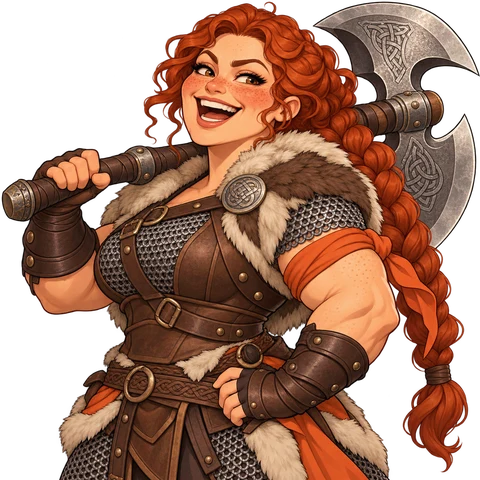
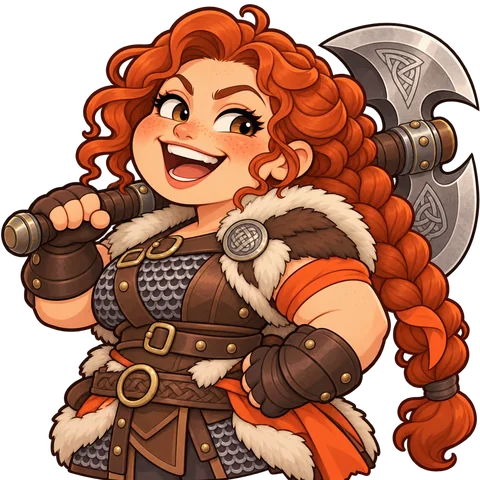
Remove Tripo free-tier leftovers, redraw Brenna/Mira UX mockup images
- Remove kael_tripo.glb, the first Kael turnaround and the Tripo test
  mockups (all from the free tier, never shipped; licensing A4) and point
  licensing, art direction and READMEs at the removal.
- Regenerate the Brenna and Mira head/bust images of the UX mockups from the
  current round-chibi portraits; the old ones were semi-realistic.

diff --git a/concept/23-art-direction/licensing.md b/concept/23-art-direction/licensing.md
@@ -125,13 +125,13 @@ Bewertung: **erlaubt** (ohne Bedingung), **mit Bedingungen**, **nicht erlaubt**.
 
 ### 3.3 Tripo (Bild-zu-3D)
 
-**Verwendung:** Brettfiguren als GLB (`art/models/source/*_board_tripo.glb` → `art/models/units/*.glb`), Rig und Animationen im Tripo-Dienst (`art-direction.md` §4.6, `art/mockups/tripo-test-2026-10/README.md`). Danach Aufbereitung in Blender (`tools/art/prepare_tripo_unit.py`).
+**Verwendung:** Brettfiguren als GLB (`art/models/source/*_board_tripo.glb` → `art/models/units/*.glb`), Rig und Animationen im Tripo-Dienst (`art-direction.md` §4.6). Danach Aufbereitung in Blender (`tools/art/prepare_tripo_unit.py`).
 
 - Terms (Auszug laut Suchtreffer, Abschnitt 5, Q12 [S]): **Free-Nutzer**: Tripo „retains all rights“ an Eingaben und Ausgaben, einschließlich der Rechte zu nutzen, zu kopieren, zu verändern, zu veröffentlichen, zu lizenzieren und daraus Erlöse zu erzielen (Abschnitt 5.2.1). **Zahlende Nutzer**: sie halten alle Rechte an Eingaben und Ausgaben, einschließlich kommerzieller Nutzung, Änderung, Verbreitung und Lizenzierung (5.2.2); sie räumen Tripo eine begrenzte, weltweite Lizenz zum Hosten und Anzeigen ein. Tripo verwendet Ein-/Ausgaben zahlender Nutzer laut Hilfeseite **nicht** für das Training; für Free-Nutzer gibt es diese Zusage nicht (Q13 [S]).
 - **Widerspruch:** Die Preis- und Blogseiten sagen, Free-Modelle seien öffentlich unter **CC BY 4.0** und damit mit Namensnennung kommerziell nutzbar (Q13 [S]). Die Terms selbst erwähnen CC BY nicht. Eine dritte Quelle sagt, Free sei nur nicht-kommerziell. **Dem Terms-Text ist zu folgen; Free-Ausgaben nicht ausliefern.**
 - **Rückwirkung bei Upgrade:** nicht belegt. Mehrere Tripo-Seiten sagen nur, es gelte die **zum Zeitpunkt der Erzeugung gültige** Fassung; eine Marketingseite behauptet, maßgeblich sei ein aktives Pro-Abo bei der Erzeugung (Q13 [S]). → Vorsicht: **was im Free-Tarif entstand, nicht ausliefern.**
 - **Betrifft das Repo konkret:**
-  - `art/models/source/kael_tripo.glb` und Bilder in `art/mockups/tripo-test-2026-10/`: **Free-Tarif, in der Tripo-Galerie öffentlich** (README dort). Nicht ausliefern. Das ausgelieferte Kael-Modell stammt aus dem späteren Weg (`kael_board_tripo.glb`).
+  - `art/models/source/kael_tripo.glb`, der erste Turnaround `art/turnarounds/kael/` und die Bilder in `art/mockups/tripo-test-2026-10/`: **Free-Tarif, in der Tripo-Galerie öffentlich**. Nicht ausgeliefert und am 2026-10-24 aus dem Repo entfernt (A4 erledigt, nur noch in der Git-Historie). Das ausgelieferte Kael-Modell stammt aus dem späteren Weg (`kael_board_tripo.glb`).
   - Beim zweiten und dritten Durchgang steht „0 Credits (Testversion)“ bzw. „letzte kostenlose Testrunde“ für den **Smart-Mesh-Schritt**. Ob dieser Schritt unter den Rechten eines **zahlenden** Nutzers lief, ist aus dem Repo nicht ersichtlich (**Frage F3**, Tripo-Support, F9).
 - **Eingaben:** Die Turnarounds (Eingabebilder) stammen aus ChatGPT. Tripo erhält daran eine Lizenz (siehe oben). Die Rechtekette ist also OpenAI → Produktinhaber → Tripo → Produktinhaber.
 - **Kündigung:** Die Terms-Auszüge sagen dazu nichts; nicht belegt (L2).
@@ -200,7 +200,7 @@ Vorschläge für den Produktinhaber; sie ändern nichts am Stand von GA26.
 | A1 | **Nur unter bezahltem Tarif erzeugen und nur solche Ausgaben ausliefern.** ElevenLabs: mindestens Starter, für Studio Games Enterprise Music, sobald die Indie-Grenzen reißen. Tripo: Pro mit Datenschutz „Privat“. ChatGPT: Tarif dokumentieren (Wortlaut zuerst prüfen). Vor jedem Batch den Tarif nachweisen, bei ElevenLabs mit `python tools/audio/elevenlabs.py status`, Ergebnis ins Prompt-Protokoll. |
 | A2 | **Prompt-Protokoll als Herkunftsnachweis.** Jede Datei in `art/prompts/<id>.md` bekommt zusätzlich: Dienst und Modellversion, **Tarif und Konto zum Erzeugungsdatum**, Prompt, Referenzen mit Quelle, Iterationen, **Ablageort der unveränderten Originaldatei**, **menschlicher Anteil** (Retusche, Übermalen, Blender-Arbeit; Verweis auf Commit). Für Audio und 3D gilt dasselbe, auch für die Mockup-READMEs (`characters-s1`, `locations-s1`, `style-2026-10`). |
 | A3 | **Originale unverändert aufbewahren** (Git LFS bzw. `audio-src`), einschließlich Metadaten (C2PA, Provenance). Die Laufzeitformate (WebP, Opus) sind abgeleitet. |
-| A4 | **Free-Reste aussondern.** Ausgaben aus Free-Tarifen (ElevenLabs, Tripo, ChatGPT falls zutreffend) nicht ausliefern; neu erzeugen. Kaels erster Tripo-Test (`kael_tripo.glb`) als „nicht ausliefern“ markieren. Free-Audio in der öffentlichen Web-Demo braucht **Namensnennung** („elevenlabs.io“, „Eleven Music“), solange sie dort läuft (Q5, Q7). |
+| A4 | **Free-Reste aussondern.** Ausgaben aus Free-Tarifen (ElevenLabs, Tripo, ChatGPT falls zutreffend) nicht ausliefern; neu erzeugen. Kaels erster Tripo-Test (`kael_tripo.glb`) ist deshalb aus dem Repo entfernt (2026-10-24). Free-Audio in der öffentlichen Web-Demo braucht **Namensnennung** („elevenlabs.io“, „Eleven Music“), solange sie dort läuft (Q5, Q7). |
 | A5 | **Terms archivieren.** Zum Erzeugungsdatum PDF oder Screenshot der gültigen Bedingungen je Dienst ablegen (außerhalb des Git-Verlaufs oder in LFS). Zusagen des Supports (F9) ebenfalls. |
 | A6 | **Vor dem Release neu prüfen.** ElevenLabs hat seine Texte am 2026-10-09 aktualisiert, Apple am 2026-10-16. Bedingungen ändern sich. |
 
@@ -268,7 +268,7 @@ Mündlich im Chat gemacht, ohne Rechnung und ohne Datumsangaben; nicht von mir g
 
 Abgleich mit dem Repo und Folgen:
 
-- **Kaels erster Tripo-Test** entstand laut `art/mockups/tripo-test-2026-10/README.md` im kostenlosen Tarif und liegt öffentlich in der Galerie. Das ist mit der Angabe vereinbar, solange `kael_tripo.glb` nicht ausgeliefert wird (A4). Er ist in den Dateien als Test dokumentiert, nicht als Produktivasset.
+- **Kaels erster Tripo-Test** (`kael_tripo.glb`, `art/mockups/tripo-test-2026-10/`) entstand im kostenlosen Tarif und liegt öffentlich in der Galerie. Er wurde nie ausgeliefert und ist am 2026-10-24 aus dem Repo entfernt (A4); das ist mit der Angabe vereinbar.
 - **Smart-Mesh-Runden „Testversion“** (zweiter und dritter Tripo-Durchgang): Die Angabe deckt sie ab, wenn sie im Pro-Konto liefen. Eine Bestätigung des Tripo-Supports bleibt sinnvoll (F3, F9).
 - **ElevenLabs Pro** erfüllt die Tarifvoraussetzung für SFX und Musik. Offen bleiben „Individual Use Only“ (F5) und die Studio-Game-Grenze (A10).
 - **Nachweis:** Rechnungen mit Datum je Dienst archivieren (A5). Sie belegen, dass der Tarif zum Zeitpunkt der Erzeugung lief; das Prompt-Protokoll (A2) hält das Erzeugungsdatum fest.

diff --git a/concept/README.md b/concept/README.md
@@ -9,7 +9,7 @@ Planungsartefakte für Hollow Crown. V1 ist seit 2026-10-23 **Staffel 1** (siehe
 | [20-game-brief/brief.md](20-game-brief/brief.md) | **Game Brief Staffel 1** (V1 = vollständige erste Staffel): Vision, Säulen, Umfang, Akte, Risiken. Löst `00-vision.md` und den V1-Umfang aus `13` ab | alle, zuerst lesen |
 | [21-gdd/gdd.md](21-gdd/gdd.md) | **Game Design Document Staffel 1**: Quelle der Wahrheit für die Spielmechanik (Rollenklassen, Leutnants, Weltkarte, Heimsuchungen, Burg, Fortschritt, Wirtschaft); Epics grob in `21-gdd/epics.md`, fein in `26-epics/epics.md`. Löst die Mechanik aus `01`, `02`, `04` §4 und `07` ab | alle, nach dem Brief |
 | [22-narrative/narrative.md](22-narrative/narrative.md) | **Narrative Design Staffel 1**: Prämisse, Story Beats, Figuren, Welt, Dialogstil, Missionsfolge, Entscheidungen, Nebenquests, Supports, Produktion; Moodboards in `art/mockups/characters-s1/` und `locations-s1/`. Löst `08-story-world.md` bis auf die Prämisse ab | Story, Content, Dialoge |
-| [23-art-direction/art-direction.md](23-art-direction/art-direction.md) | **Art Direction Staffel 1**: Spielzeug-Diorama mit Detailgrad der bestehenden Karte, Round-Chibi-Figuren per Bild-zu-3D (Tripo), Farbwelt, Jahreszeit je Akt, Bildebene, Weltkarte und Burg in 3D, Effekte, Audio-Richtung, Asset-Budget. Löst `15-art-direction.md` ab; Probe in `art/mockups/tripo-test-2026-10/` (die abgelehnte Stilprobe `style-3d-2026-10/` ist entfernt, siehe Entscheidungslog) | Art, Render, Content |
+| [23-art-direction/art-direction.md](23-art-direction/art-direction.md) | **Art Direction Staffel 1**: Spielzeug-Diorama mit Detailgrad der bestehenden Karte, Round-Chibi-Figuren per Bild-zu-3D (Tripo), Farbwelt, Jahreszeit je Akt, Bildebene, Weltkarte und Burg in 3D, Effekte, Audio-Richtung, Asset-Budget. Löst `15-art-direction.md` ab; die Proben (Tripo-Test, abgelehnte Stilprobe) sind aus dem Repo entfernt, siehe Entscheidungslog | Art, Render, Content |
 | [24-architecture/architecture.md](24-architecture/architecture.md) | **Architektur Staffel 1 (Delta zu `10`)**: zwei Command-Ebenen (Kampf, Kampagne), Bedingungen/Wirkungen als Daten, Akt-Pakete mit Hintergrund-Download, Speicherformat 2, Tageswechsel 04:00, Heimsuchungs-Anker, Leutnants, Szenen-Schema, KI im Worker, drei 3D-Szenen; Epic-Zuordnung inkl. neuem Fundament-Epic E0 | Technik, alle Umsetzungs-Sessions |
 | [25-ux/](25-ux/) | **UX Staffel 1**: `DESIGN.md` (Richtung B „Spielzeug-Diorama“, Tokens, Komponenten) und `EXPERIENCE.md` (Hub Weltkarte, Kampf, Heimat, Szenen, Truppe, Kampagnen, Abschied, Key Flows); freigegebene Mockups in `25-ux/mockups/`. Löst U21 für Spielflächen und `09-ux-mobile.md` §4–§5 ab | UI, alle Umsetzungs-Sessions |
 | [26-epics/epics.md](26-epics/epics.md) | **Epics und Stories Staffel 1**: 12 Epics nach Spielerwert, 99 Stories; bis zum MVP (Akt 1) mit vollen Akzeptanzkriterien, Burg/Akt 2/Akt 3 grob. Lesbare Fassung in `26-epics/html/epics.html`. Löst `21-gdd/epics.md` ab | Umsetzung, Sprint-Planung |

diff --git a/concept/23-art-direction/decision-log.md b/concept/23-art-direction/decision-log.md
@@ -24,7 +24,7 @@
 | 2026-10-23 | 3D-Figuren entstehen per **Bild-zu-3D**: aus dem freigegebenen Porträt ein Ganzkörper-Turnaround (ChatGPT), daraus per KI-3D-Dienst ein texturiertes Modell, in Blender aufgeräumt, geriggt und animiert. Präzisiert „3D-Chibi neu modelliert“; der Baukasten je Rolle gilt weiter für Rig und Animationen. Lizenz des Dienstes wie GA26 vor kommerzieller Nutzung prüfen | Produktinhaber, Empfehlung bestätigt; Skript-Grundkörper erreichen kein Profi-Niveau |
 | 2026-10-23 | Stilprobe 2 auf der echten Prolog-Karte im Spiel: heller und wärmer abgestimmt, dazu eine neue Kael-Figur; Screenshot aus dem Spiel | Produktinhaber, Empfehlung bestätigt |
 | 2026-10-23 | Bild-zu-3D-Dienst: **nur Tripo**, kein Vergleich mit Meshy. Erst ein Test mit dem kostenlosen Tarif an Kael; überzeugt das Ergebnis, kauft der Produktinhaber einen Bezahltarif (kommerzielle Nutzung erst ab Pro) | Produktinhaber; Tripo riggt auch Vierbeiner (Wölfe, Pegasus, Wyvern, Drachen) |
-| 2026-10-23 | Tripo-Test bestanden: Kael aus einem Einzelbild, auf der Prolog-Karte im Spiel geprüft (`art/mockups/tripo-test-2026-10/`). Produktinhaber hat Tripo Pro gekauft | Qualität deutlich über den Blender-Figuren, passend zum Detailgrad der Karte |
+| 2026-10-23 | Tripo-Test bestanden: Kael aus einem Einzelbild, auf der Prolog-Karte im Spiel geprüft (`art/mockups/tripo-test-2026-10/`, Free-Tarif; Dateien am 2026-10-24 aus dem Repo entfernt, nur noch in der Git-Historie). Produktinhaber hat Tripo Pro gekauft | Qualität deutlich über den Blender-Figuren, passend zum Detailgrad der Karte |
 | 2026-10-23 | Budget je Brettfigur: Textur deutlich vereinfacht auf **512 px** (nur Grundfarbe), etwa **6 000 Dreiecke**, rund 0,4 MB. Weg: Tripo-Retopologie (10 000 Quads), dann `tools/art/prepare_tripo_unit.py` (Edge Padding, Reduktion, Ausrichtung) | Vorschlag Produktinhaber; Figur ist auf dem Handy nur ≈ 120 Gerätepixel hoch, 512 px und 6 000 Dreiecke zeigen keinen sichtbaren Verlust |
 | 2026-10-23 | Brettfiguren **bewusst vereinfacht** gegenüber den Porträts: eigenes vereinfachtes Turnaround (große Flächen, glatte Rüstung, schlichter Umhang, eine Schattenstufe), daraus Tripo Smart-Mesh (Multi-View, 3 000 Quads, privat) und Textur. Ergebnis Kael: ≈ 7 000 Dreiecke, 512er-Textur | Produktinhaber; Detail ist auf dem Handy nicht sichtbar und kostet nur Rechenleistung |
 | 2026-10-23 | Rig und Animationen über Tripo: Auto-Rig Humanoid (Mixamo-Skelett), Presets „an Ort und Stelle“ exportiert: idle = Inaktiv, walk = Gehen, attack = Hieb, hit = Körpertreffer_01, downed = fallen. `tools/art/prepare_tripo_unit.py` benennt um und taktet nach (Angriff 0,5 s mit Treffer bei 0,25 s, Treffer 0,5 s) | Assistent, im Spiel geprüft (Laufen); Größe der Animationsdaten noch zu hoch (1,2 MB je Figur, Ziel ≤ 0,5 MB) |

diff --git a/art/README.md b/art/README.md
@@ -13,7 +13,7 @@ Maßgeblich ist seit 2026-10-23 `concept/23-art-direction/art-direction.md` (Rou
 | Porträts aller Figuren (Round-Chibi, Moodboard-Stand) | `art/mockups/characters-s1/<id>.png` |
 | Orte und Dialog-Hintergründe (Kandidaten) | `art/mockups/locations-s1/` |
 | Stil-Leitreferenz | `art/mockups/style-2026-10/round_chibi_kael.png` |
-| Brettfigur Kael (Tripo) und Ingame-Probe | `art/models/source/kael_board_tripo.glb`, `art/turnarounds/kael*/`, `art/mockups/tripo-test-2026-10/` |
+| Brettfigur Kael (Tripo) | `art/models/source/kael_board_tripo.glb`, `art/turnarounds/kael_board/` |
 
 **Veraltet** (Proof of Concept, vom Spiel bis zur Umstellung in Epic E7 noch geladen, nicht als Referenz verwenden; die Anime-Porträts `portraits/` sind gelöscht, Dialoge zeigen nur noch die Halbfiguren aus `mockups/characters-s1/`): `backgrounds/` (PoC-Hintergründe), `models/units/*.glb` außer Kael aus Tripo (Blender-Skriptfiguren, abgelöst durch Bild-zu-3D), `sprites/` (2D-Pixel, D4, nicht weiterentwickelt), sowie die entfernten, nur noch in der Git-Historie liegenden Altbestände `tiles/`, `concept/art/` (Anime-Sheets, Pixel-Beweis), `art/mockups/style-3d-2026-10/` (abgelehnte Stilprobe).
 

diff --git a/art/prompts/kael_board_turnaround.md b/art/prompts/kael_board_turnaround.md
@@ -3,7 +3,7 @@
 - **Dateien:** `art/turnarounds/kael_board/sheet.png` (1536 × 1024, Original); daraus `front.png`, `side.png`, `back.png` (je 1024 × 1024, Hintergrund `#E2E4E3`)
 - **Datum:** 2026-10-23
 - **Werkzeug:** ChatGPT (Bildgenerierung), gesteuert über Claude in Chrome; Chats „Create simplified turnaround image“ (Stufe 1) und „Redraw Character Turnaround“ (Stufe 2)
-- **Referenz:** `art/turnarounds/kael/sheet.png` (Porträt-Turnaround)
+- **Referenz:** der erste Kael-Porträt-Turnaround (`art/turnarounds/kael/sheet.png`, am 2026-10-24 aus dem Repo entfernt, nur noch in der Git-Historie)
 - **Zweck:** Eingabe für Tripo Smart-Mesh (Multi-View vorn / rechts / hinten), siehe `concept/23-art-direction/art-direction.md` §4.6
 - **Iterationen:** 2 Stufen
 

diff --git a/concept/23-art-direction/art-direction.md b/concept/23-art-direction/art-direction.md
@@ -214,7 +214,7 @@ FE-Set aus GA8/D13 auf jedem Rumpf: Idle (atmen, gelegentlich blinzeln), Laufen,
 
 ### 4.6 Produktion (Bild-zu-3D) [A]
 
-Erprobt an Kael, Ergebnis in `art/mockups/tripo-test-2026-10/`.
+Erprobt an Kael (Free-Tarif-Probe, Dateien am 2026-10-24 aus dem Repo entfernt; Ergebnis im Entscheidungslog).
 
 Die Brettfigur muss **nicht** 1:1 wie das Porträt aussehen: Sie ist eine bewusst vereinfachte Fassung derselben Figur. [A]
 
